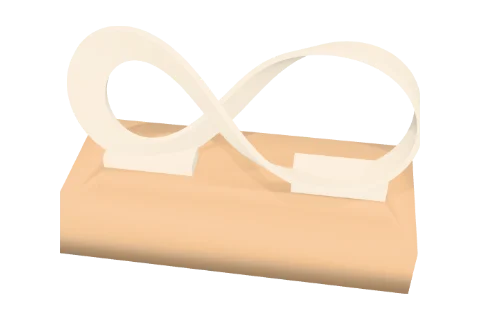
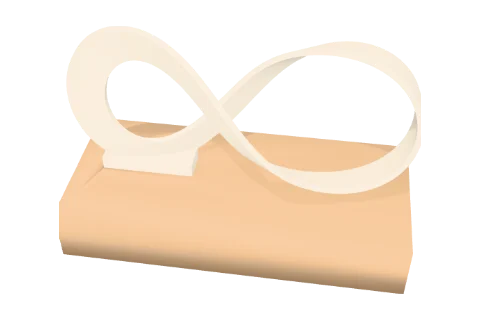
Ribbon sculpture: back to one foot
Claude-Session: https://claude.ai/code/session_01Gur2ukCcF6SV6N7mbFmgcq

diff --git a/src/geometry.ts b/src/geometry.ts
@@ -1743,8 +1743,8 @@ export class Builder {
       thick: clampN(p.scThick ?? 2.4, 0.8, 10), halfTwists: clampN(p.scTwist ?? 1, 0, 12), depth: clampN(p.scDepth ?? 35, 0, 100) / 100,
     }, warnings);
     const bb = band.boundingBox();
-    // feet: one under each low part (both loops of the infinity), each into its own slot in the
-    // base; the base is centred under the whole sculpture
+    // foot: under the lowest part, into a slot in the base; the base is centred under the whole
+    // sculpture (woodBase can take several slots, but one foot is what the user wants)
     const mesh = band.getMesh();
     const vp = mesh.vertProperties, np = mesh.numProp;
     let zmin = Infinity;
@@ -1760,9 +1760,9 @@ export class Builder {
       const g = groups[groups.length - 1];
       if (g && q[0] - g[g.length - 1][0] < 15) g.push(q); else groups.push([q]);
     }
-    // the (at most) two lowest groups get a foot each
+    // one foot, under the lowest group (user tried two feet on the infinity and went back to one)
     const lowest = (g: [number, number, number][]) => g.reduce((m, q) => (q[2] < m[2] ? q : m), g[0]);
-    const chosen = groups.sort((g1, g2) => lowest(g1)[2] - lowest(g2)[2]).slice(0, 2);
+    const chosen = groups.sort((g1, g2) => lowest(g1)[2] - lowest(g2)[2]).slice(0, 1);
     const slotD = 8;
     const reach = Math.max(3, bandW * 0.35);
     const fd0 = Math.max(6, clampN(p.scThick ?? 2.4, 0.8, 10) * 3);

diff --git a/CLAUDE.md b/CLAUDE.md
@@ -153,8 +153,8 @@ and dropped: user said "not looking like sculptures… maybe just shapes". Now n
 spread along the loop + `scTwist` half twists (odd = Möbius: last ring joins the first shifted by 2
 corners). Mesh built directly (4 corners per ring, quads, no caps) → Manifold. Self-clearance
 check (points far apart along the loop must stay > band size apart) warns. Feet: low band points
-(within 0.6·width of the lowest) grouped across x (gap > 15 mm); the two lowest groups each get a foot
-and a slot (user: "two feet for the infinity so it stands on both loops") into the stand base (`woodBase`, shared with the trophy: wood block laser file or printed;
+(within 0.6·width of the lowest) grouped across x (gap > 15 mm); ONE foot under the lowest group
+(two feet on the infinity were tried and the user went back to one) into the stand base (`woodBase`, shared with the trophy: wood block laser file or printed;
 slot may sit off centre via `slotAt`, base centred under the sculpture; LED groove in front).
 Printed standing with tree supports (note shown). Pictures: 3/4 view.
 
